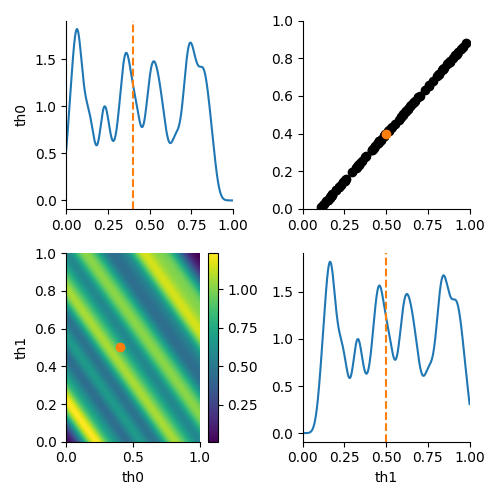
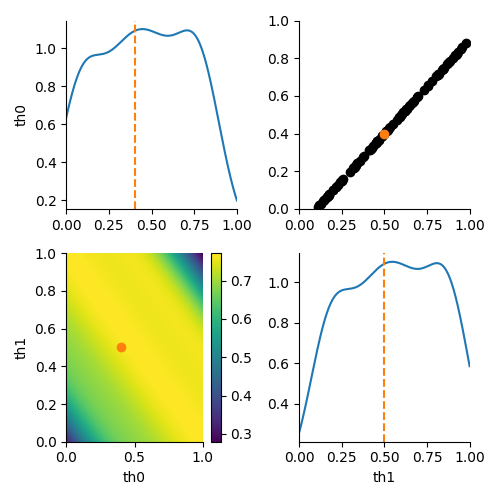
use better kde for viz

diff --git a/non_id_able/models.py b/non_id_able/models.py
@@ -203,11 +203,12 @@ def viz(label, history, show_true=True):
         if os.path.isfile(filename):
             continue
         df, w = history.get_distribution(m=0, t=t)
+        kde = pyabc.MultivariateNormalTransition()
         axes = pyabc.visualization.plot_kde_matrix(
             df, w, numx=1000, numy=1000,
             limits={key: (prior_lb, prior_ub)
                     for key in ['th0', 'th1']},
-            refval=th_true)
+            refval=th_true, kde=kde)
         
         if show_true:
             axes[0, 0].plot(xs_0, ys_0, '-', color='k', alpha=0.75)
